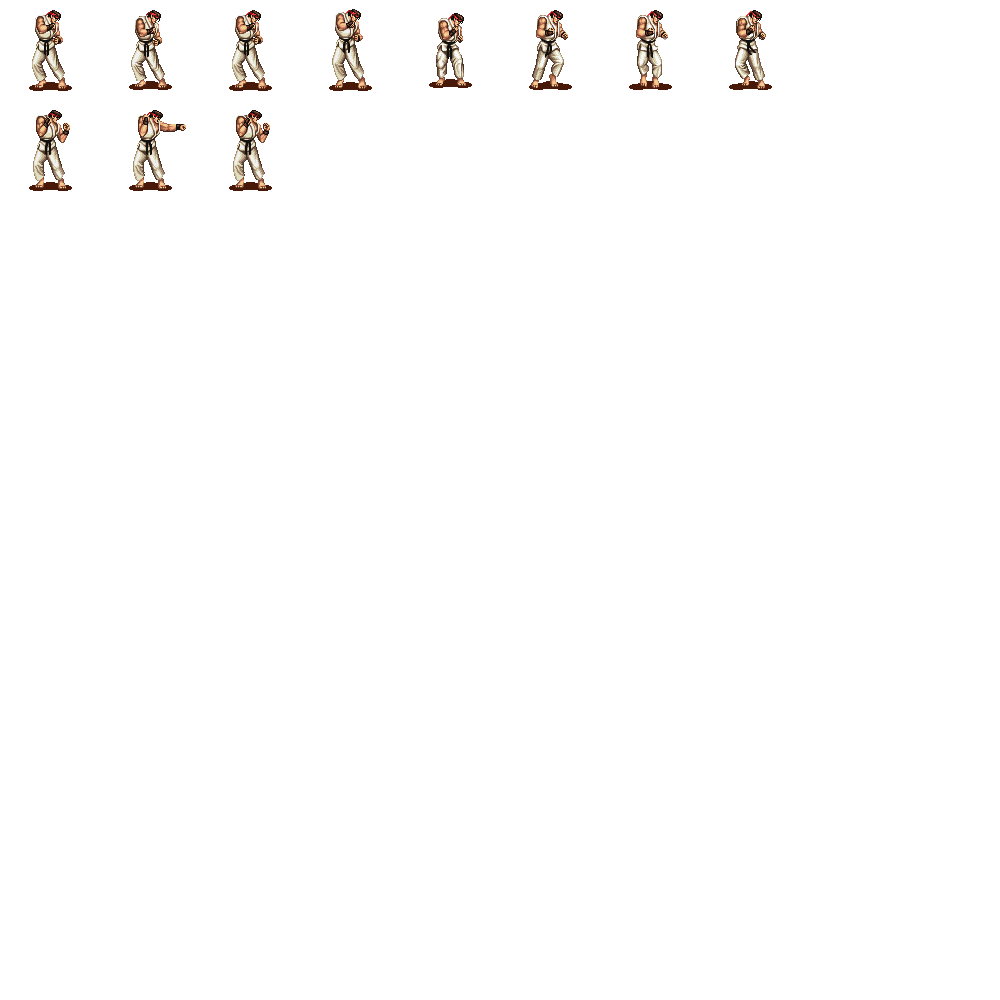
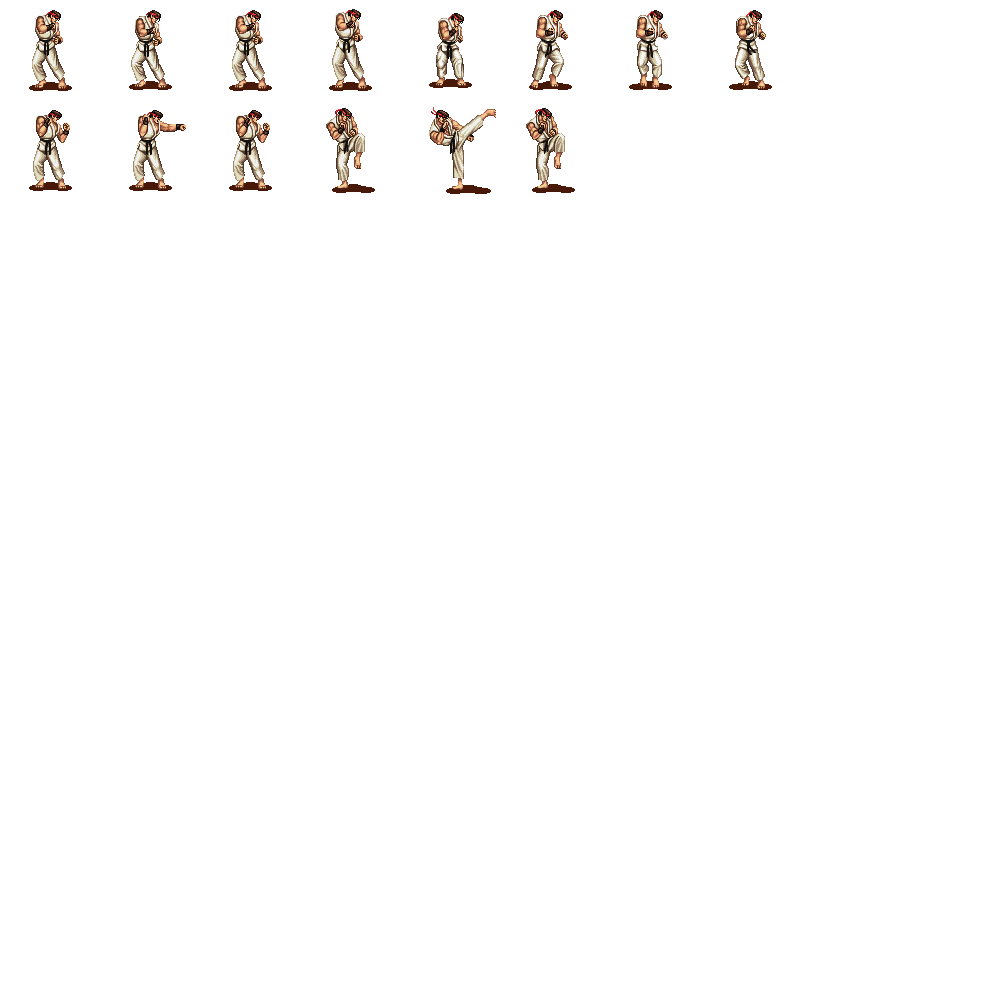
Ajouté animation kick Ryu

Changed region(s): [[0.434, 0.093, 0.496, 0.217], [0.527, 0.093, 0.589, 0.217], [0.31, 0.093, 0.372, 0.217]]

diff --git a/script.js b/script.js
@@ -17,6 +17,7 @@ var stage,
         gauche: 0,
         droite: 0,
         numPad1: 0,
+        numPad2: 0,
         bas: 0
     },
     bitmap;
@@ -59,6 +60,10 @@ function keyPress(e) {
         clavier2.numPad1 = 1;
         perso2.gotoAndPlay("punch1Perso2");
     }
+    if (e.keyCode == 98) {
+        clavier2.numPad2 = 1;
+        perso2.gotoAndPlay("kick1Perso2");
+    }
 
 }
 
@@ -100,6 +105,11 @@ function keyRelease(e) {
         clavier2.numPad1 = 0;
         perso2.gotoAndPlay("standPerso2");
     }
+    if (e.keyCode == 98) {
+        clavier2.numPad2 = 0;
+        perso2.gotoAndPlay("standPerso2");
+    }
+
 }
 
 function init() {
@@ -141,7 +151,7 @@ function creationPerso1() {
             standPerso1: [0, 3, true, 0.1],
             walkPerso1: [4, 8, true, 0.1],
             punch1Perso1: [10, 12, false, 0.15],
-            kick1Perso1: [13, 15, true, 0.1]
+            kick1Perso1: [13, 15, false, 0.1]
         }
     });
 
@@ -168,7 +178,8 @@ function creationPerso2() {
         animations: {
             standPerso2: [0, 3, true, 0.1],
             walkPerso2: [4, 8, true, 0.1],
-            punch1Perso2: [10, 12, false, 0.1]
+            punch1Perso2: [10, 12, false, 0.1],
+            kick1Perso2: [13, 15, false, 0.1]
         }
     });
 
